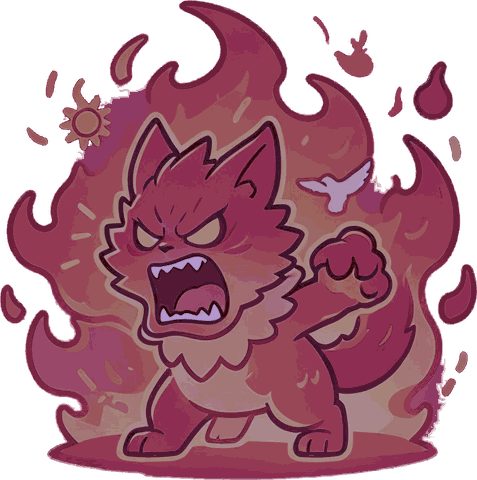
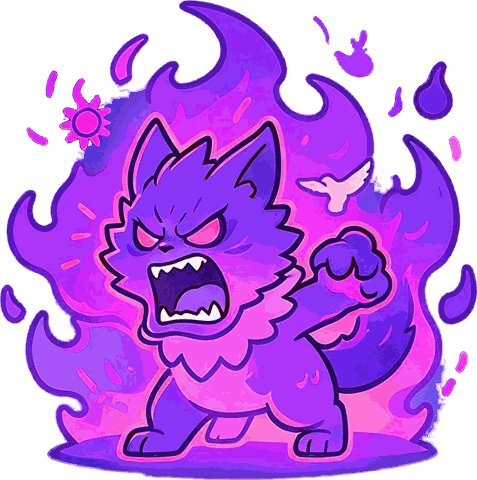
Sửa màu dáng nổi giận của Tướng Thủy (giữ lửa cam) và Hồ Đen (lửa tím sáng) (v159)
make-variants.py: công thức riêng cho rage.png ('rage') và tuỳ chọn keep_warm giữ nguyên lửa.

Claude-Session: https://claude.ai/code/session_01HJ3y2SdKWVLnaVSYoWwqRH

diff --git a/index.html b/index.html
@@ -14,7 +14,7 @@
   <meta name="description" content="Thần Thoại Việt — game thủ thành truyền thuyết Văn Lang – Âu Lạc: Sơn Tinh – Thủy Tinh, Thánh Gióng, Thạch Sanh, Lạc Long Quân, An Dương Vương.">
   <link rel="preconnect" href="https://fonts.googleapis.com">
   <link rel="stylesheet" href="https://fonts.googleapis.com/css2?family=Alegreya+SC:wght@700;800&family=Alegreya+Sans:wght@400;500;700;800&display=swap">
-  <link rel="stylesheet" href="css/style.css?v=158">
+  <link rel="stylesheet" href="css/style.css?v=159">
 </head>
 <body>
 <!--BODY-->
@@ -101,7 +101,7 @@
           <button id="btn-settings" class="mc-btn metal"><svg viewBox="0 0 20 20"><circle cx="10" cy="10" r="3" fill="none" stroke="currentColor" stroke-width="1.8"/><path d="M10 2v3M10 15v3M2 10h3M15 10h3M4.3 4.3l2.1 2.1M13.6 13.6l2.1 2.1M4.3 15.7l2.1-2.1M13.6 6.4l2.1-2.1" stroke="currentColor" stroke-width="1.8"/></svg>Cài Đặt</button>
           <div class="mc-subs"><button id="btn-menu-codex" class="mc-sub">📖 Bách khoa</button><button id="btn-ranks" class="mc-sub">🏆 Xếp hạng</button><button id="btn-feedback" class="mc-sub">✉ Góp ý</button></div>
         </nav>
-        <div class="ver">Phiên bản 158</div>
+        <div class="ver">Phiên bản 159</div>
       </div>
 
       <div id="story" class="overlay" hidden></div>
@@ -140,20 +140,20 @@
       el.textContent = 'Lỗi: ' + (e.message || e.error) + (e.filename ? ' (' + e.filename.split('/').pop() + ':' + e.lineno + ')' : '');
     });
   </script>
-  <script src="js/art.js?v=158"></script>
-  <script src="js/data.js?v=158"></script>
-  <script src="js/enemies2.js?v=158"></script>
-  <script src="js/game.js?v=158"></script>
-  <script src="js/render.js?v=158"></script>
-  <script src="js/costume.js?v=158"></script>
-  <script src="js/maps.js?v=158"></script>
-  <script src="js/chapters.js?v=158"></script>
-  <script src="js/firebase-config.js?v=158"></script>
-  <script src="js/cloud.js?v=158"></script>
-  <script src="js/coop.js?v=158"></script>
-  <script src="js/ui.js?v=158"></script>
-  <script src="js/vfx.js?v=158"></script>
+  <script src="js/art.js?v=159"></script>
+  <script src="js/data.js?v=159"></script>
+  <script src="js/enemies2.js?v=159"></script>
+  <script src="js/game.js?v=159"></script>
+  <script src="js/render.js?v=159"></script>
+  <script src="js/costume.js?v=159"></script>
+  <script src="js/maps.js?v=159"></script>
+  <script src="js/chapters.js?v=159"></script>
+  <script src="js/firebase-config.js?v=159"></script>
+  <script src="js/cloud.js?v=159"></script>
+  <script src="js/coop.js?v=159"></script>
+  <script src="js/ui.js?v=159"></script>
+  <script src="js/vfx.js?v=159"></script>
   <script>if ('serviceWorker' in navigator && location.protocol === 'https:') navigator.serviceWorker.register('sw.js').catch(() => {});</script>
-  <script src="js/main.js?v=158"></script>
+  <script src="js/main.js?v=159"></script>
 </body>
 </html>

diff --git a/js/ui.js b/js/ui.js
@@ -1171,7 +1171,7 @@ class UI {
           <button class="btn metal" style="margin-left:auto" data-act="set-feedback">✉ Góp ý</button></div>
         <div class="tg metal"><div><b>Xoá tiến trình</b><small>Xoá sao và các ải đã mở trên máy này</small></div>
           <button class="btn metal" style="margin-left:auto;color:#FFB08A;border-color:#C8401E" data-act="wipe">${this.wipeArmed ? 'Bấm lần nữa để xoá' : 'Xoá'}</button></div>
-        <div class="note" style="text-align:center">Thần Thoại Việt · Phiên bản 158 · ${typeof CLOUD !== 'undefined' && CLOUD.enabled ? 'Tiến trình lưu trên máy và đám mây' : 'Tiến trình lưu trên trình duyệt của bạn'}</div>
+        <div class="note" style="text-align:center">Thần Thoại Việt · Phiên bản 159 · ${typeof CLOUD !== 'undefined' && CLOUD.enabled ? 'Tiến trình lưu trên máy và đám mây' : 'Tiến trình lưu trên trình duyệt của bạn'}</div>
       </div></div>`;
   }
 

diff --git a/sw.js b/sw.js
@@ -1,6 +1,6 @@
 // Service worker: lưu sẵn game để mở lại không cần mạng (trừ lưu đám mây).
 // Đổi VERSION mỗi khi phát hành để máy người chơi tải bản mới.
-const VERSION = 'v158';
+const VERSION = 'v159';
 const CORE = ['./', './index.html', './manifest.webmanifest', './css/style.css', './icons/icon-192.png'];
 self.addEventListener('install', (e) => { e.waitUntil(caches.open(VERSION).then((c) => c.addAll(CORE))); self.skipWaiting(); });
 self.addEventListener('activate', (e) => {

diff --git a/tools/make-variants.py b/tools/make-variants.py
@@ -17,10 +17,12 @@ VARIANTS = {
     'camapden':   ('camap',      {'tint': (110, 70, 160), 'k': 0.55, 'val': 0.75}),
     'mucdoc':     ('muc',        {'hue': 150, 'sat': 1.2}),
     'cungtlua':   ('cungan',     {'tint': (235, 80, 40), 'k': 0.6}),
-    'tuongthuy':  ('haba',       {'hue': -60, 'sat': 1.2, 'val': 0.95}),
+    'tuongthuy':  ('haba',       {'hue': -60, 'sat': 1.2, 'val': 0.95, 'rage': {'hue': -60, 'sat': 1.2, 'val': 0.95, 'keep_warm': True}}),
     'chanlua':    ('chantinh',   {'hue': -95, 'sat': 1.3}),
-    'hoden':      ('hotinh',     {'tint': (110, 70, 150), 'k': 0.6, 'val': 1.0}),
+    'hoden':      ('hotinh',     {'tint': (110, 70, 150), 'k': 0.6, 'val': 1.0, 'rage': {'hue': -95, 'sat': 0.95, 'val': 1.0}}),
 }
+# 'rage': cách đổi màu riêng cho rage.png (dáng nổi giận toàn lửa đỏ cam): nhuộm như dáng thường làm lửa
+# đục / sai màu. 'keep_warm': giữ nguyên điểm đỏ-cam-vàng rực (lửa), chỉ đổi phần còn lại.
 
 def rgb2hsv(c):
     c = c / 255.0; r, g, b = c[..., 0], c[..., 1], c[..., 2]
@@ -43,6 +45,8 @@ def hsv2rgb(h, s, v):
 def apply(im, o):
     a = np.asarray(im.convert('RGBA')).astype(float)
     rgb, al = a[..., :3], a[..., 3:]
+    h0, s0, v0 = rgb2hsv(rgb)
+    warm = ((h0 < 55) | (h0 > 345)) & (s0 > 0.45) & (v0 > 0.45)
     if 'hue' in o or 'sat' in o:
         h, s, v = rgb2hsv(rgb)
         rgb = hsv2rgb(h + o.get('hue', 0), np.clip(s * o.get('sat', 1), 0, 1), v)
@@ -54,6 +58,7 @@ def apply(im, o):
     # giữ viền tối của nét vẽ
     dark = a[..., :3].max(-1, keepdims=True) < 60
     rgb = np.where(dark, a[..., :3], rgb)
+    if o.get('keep_warm'): rgb = np.where(warm[..., None], a[..., :3], rgb)
     return Image.fromarray(np.concatenate([rgb, al], -1).astype(np.uint8), 'RGBA')
 
 ONLY = set(sys.argv[1:])   # tùy chọn: chỉ sinh lại các mã này, vd. python3 tools/make-variants.py camapden thietky
@@ -63,6 +68,6 @@ for code, (src, o) in VARIANTS.items():
     for n in ['walk1', 'walk2', 'attack', 'rage']:
         f = os.path.join(ROOT, src, n + '.png')
         if not os.path.exists(f): continue
-        out = apply(Image.open(f), o)
+        out = apply(Image.open(f), o.get(n, o) if n == 'rage' else o)
         out.quantize(colors=256, method=Image.FASTOCTREE, dither=Image.NONE).save(os.path.join(ROOT, code, n + '.png'), optimize=True)
     print(code, '←', src)

diff --git a/GAMEPLAY.md b/GAMEPLAY.md
@@ -1478,3 +1478,8 @@ Mỗi đòn đánh thường của tướng mang hiệu ứng của hành mình:
 - **Nền Sông riêng:** `assets/maps/nen-song.jpg` (1600×738 như các nền khác, cắt bỏ dải dưới có dấu AI); bỏ ánh xạ tạm `song → dam`.
 - **Khung giao diện:** `thanh-tien-do`, `nut-vang`, `nut-bac`, `khung-nut-chinh` cắt lại từ ảnh gốc cùng mẫu — hết viền / bóng ám hồng, nhẹ hơn nhiều (khung-nut-chinh 250 → 45 KB). Nền menu gửi kèm trùng ảnh đang dùng → giữ nguyên; khung thẻ vàng và khung người chơi có chữ → không dùng.
 - `tools/build-bundle.py` gói thêm icon đồ theo `tools/item-sheets.json` cho bản thử. Ảnh trước/sau: `docs/anh-dot-0710.png`.
+
+## Phiên bản 159 — Sửa màu dáng nổi giận của Tướng Thủy và Hồ Đen
+- `tools/make-variants.py`: mỗi bản đổi màu có thể có công thức riêng cho `rage.png` (khoá `'rage'`), và tuỳ chọn `keep_warm` giữ nguyên điểm đỏ-cam-vàng rực (lửa).
+- **Tướng Thủy** (`tuongthuy`, đổi sắc từ Hà Bá): dáng nổi giận giữ lửa cam như bản gốc, chỉ thân đổi màu như dáng thường (trước đây lửa bị xoay thành hồng tím).
+- **Hồ Đen** (`hoden`, từ Hồ Tinh): dáng nổi giận chuyển lửa đỏ cam sang **lửa tím sáng** (xoay sắc, không nhuộm) — hợp với dáng thường màu tím, hết bị đục.
